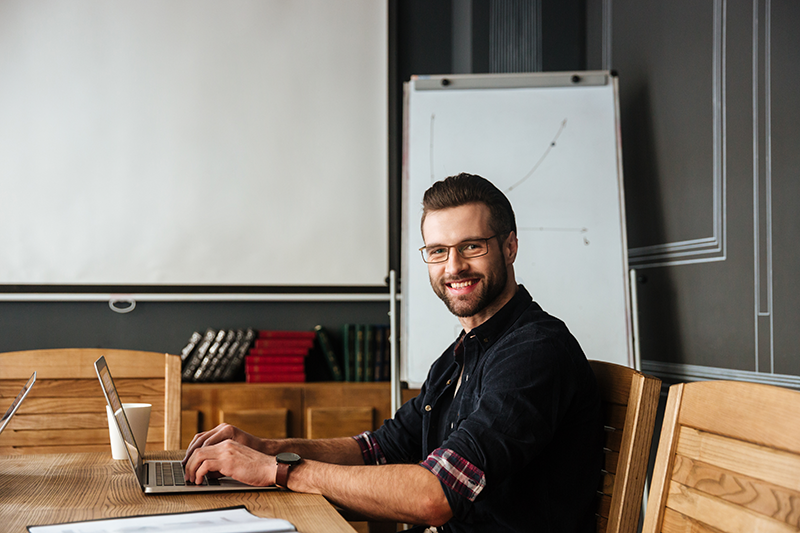
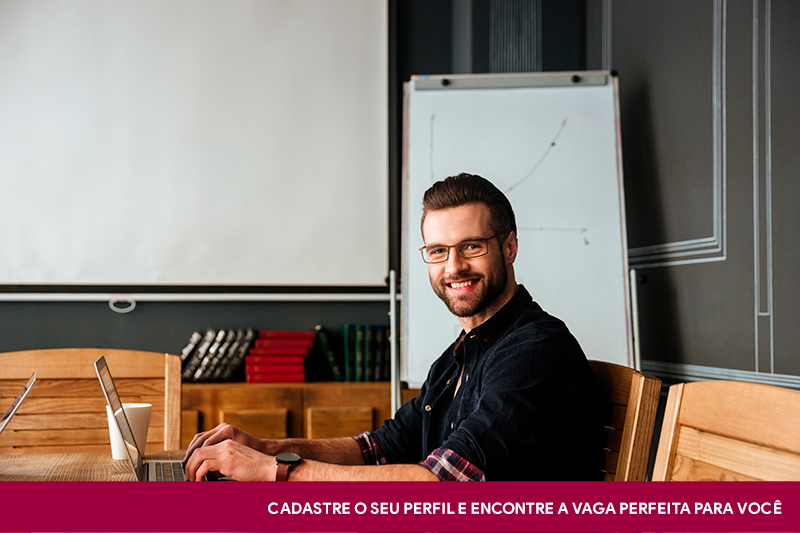
estilizacao home, index e forms nas rotas candidato e recrutador

Changed region(s): [[0.0, 0.9006, 1.0, 1.0], [0.5625, 0.5403, 0.5938, 0.5704]]

diff --git a/public/stylesheets/style.css b/public/stylesheets/style.css
@@ -7,10 +7,6 @@ body {
   justify-content: space-between;
   margin-top: 3%; }
 
-img {
-  width: 200px;
-  height: 200px; }
-
 #edit-recruiter {
   display: flex;
   justify-content: space-around; }
@@ -47,6 +43,28 @@ img {
   color: white;
   padding-right: 1%; }
 
+#back-div-candidato > h2 {
+  padding-top: 0.5ch;
+  font-size: 2.5vw; }
+
+#imagem-candidato > img {
+  height: auto;
+  width: 48vw;
+  margin-left: -5%; }
+
+#btn-cad-candidato {
+  margin-top: -22%;
+  margin-left: 75%; }
+
+#btn-cad-candidato > a > img {
+  width: auto;
+  height: 6vw; }
+
+#form-pre-candidato {
+  margin-top: 10%;
+  margin-left: -5%;
+  padding-right: 2.5vw; }
+
 #back-div-recrutador {
   background-color: #111193;
   height: 5vw;
@@ -55,5 +73,27 @@ img {
   text-align: start;
   color: white;
   padding-left: 1%; }
+
+#back-div-recrutador > h2 {
+  padding-top: 0.5ch;
+  font-size: 2.5vw; }
+
+#imagem-recrutador > img {
+  height: auto;
+  width: 48vw;
+  margin-left: 5%; }
+
+#btn-cad-recrutador {
+  margin-top: -22%;
+  margin-left: 10.5%; }
+
+#btn-cad-recrutador > a > img {
+  width: auto;
+  height: 6vw; }
+
+#form-pre-recrutador {
+  margin-top: 10%;
+  margin-left: 5%;
+  padding-right: 2.5vw; }
 
 /*# sourceMappingURL=style.css.map */

diff --git a/public/stylesheets/style.scss b/public/stylesheets/style.scss
@@ -11,11 +11,6 @@ body {
   margin-top: 3%;
   }
 
-img {
-  width: 200px;
-  height: 200px;
-}
-
 #edit-recruiter {
   display:flex;
   justify-content: space-around;
@@ -59,6 +54,32 @@ img {
   padding-right: 1%;
 }
 
+#back-div-candidato > h2{
+  padding-top: 0.5ch;
+  font-size: 2.5vw;
+}
+
+#imagem-candidato > img {
+  height: auto;
+  width: 48vw;
+  margin-left: -5%;
+}
+
+#btn-cad-candidato {
+  margin-top: -22%;
+  margin-left: 75%;
+}
+
+#btn-cad-candidato >a > img {
+  width: auto;
+  height: 6vw;
+}
+
+#form-pre-candidato{
+  margin-top: 10%;
+  margin-left: -5%;
+  padding-right: 2.5vw;
+}
 
 
 //Estilização Recrutador
@@ -70,4 +91,31 @@ img {
   text-align: start;
   color: white;
   padding-left: 1%;
+}
+
+#back-div-recrutador > h2{
+  padding-top: 0.5ch;
+  font-size: 2.5vw;
+}
+
+#imagem-recrutador > img{
+  height: auto;
+  width: 48vw;
+  margin-left: 5%;
+}
+
+#btn-cad-recrutador{
+  margin-top: -22%;
+  margin-left: 10.5%;
+}
+
+#btn-cad-recrutador >a > img {
+  width: auto;
+  height: 6vw;
+}
+
+#form-pre-recrutador{
+  margin-top: 10%;
+  margin-left: 5%;
+  padding-right: 2.5vw;
 }

diff --git a/routes/recruiter.routes.js b/routes/recruiter.routes.js
@@ -10,13 +10,13 @@ const saltRounds = 10;
 routerRecruiter.get('/recruiterPre', (req, res)=>{
     let formRecruiter = '';
     formRecruiter =`
-    <form action="/recruiterPre" method="POST">
-     <label for="name">Nome</label>
-     <input type="text" name="name" id="name-recruiter" placeholder="Nome">
-     <br><br>
-     <label for="email">Email</label>
-     <input type="email" name="email" id="email" placeholder="E-mail">
-     <button type="submit">Criar</button>
+    <form action="/recruiterPre" method="POST" class="form-group">
+     <label for="name"></label>
+     <input type="text" name="name" id="name-recruiter" placeholder="Nome" class="form-control">
+     <label for="email"></label>
+     <input type="email" name="email" id="email" placeholder="E-mail" class="form-control">
+     <br>
+     <button type="submit" class="btn btn-primary">Criar</button>
     </form>
     `
 res.render('index', {formRecruiter}) 

diff --git a/routes/candidate.routes.js b/routes/candidate.routes.js
@@ -11,17 +11,16 @@ routerCandidate.get("/candidatePre", (req, res) => {
 
   formCandidate = `
 
-  <form action="/candidatePre" method="POST">
-  <label for="name-candidate" >Nome</form>
-  <input type="text" name ="name" id="name-candidate" placeholder= "Nome">
-  <br><br>
-  <label form="email">Nome</form>
-  <input type="email" name="email" id="email-candidate" placeholder= "E-mail">
-  <br><br>
-  <button type="submit">Criar</button>
-  </form>
+  <form action="/candidatePre" method="POST" class="form-group">
+  <label for="name"></label>
+  <input type="text" name="name" id="name-candidato" placeholder="Nome" class="form-control">
+  <label for="email"></label>
+  <input type="email" name="email" id="email" placeholder="E-mail" class="form-control">
+  <br>
+  <button type="submit" class="btn btn-primary">Criar</button>
+ </form>
+ `;
 
-  `;
   res.render("index", { formCandidate });
 });
 
